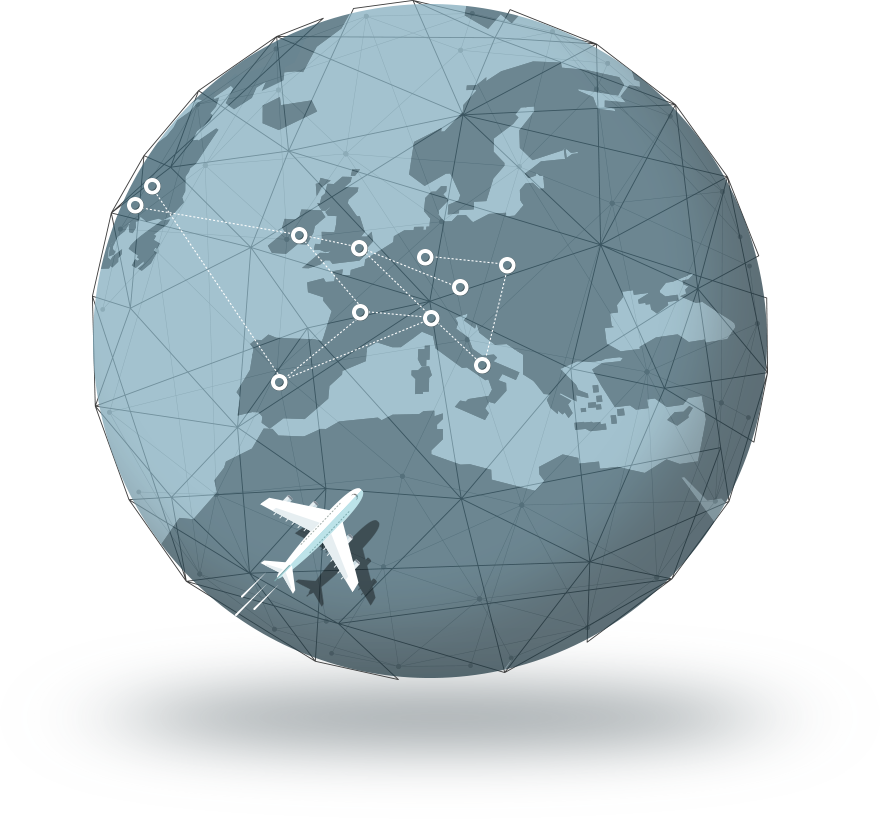
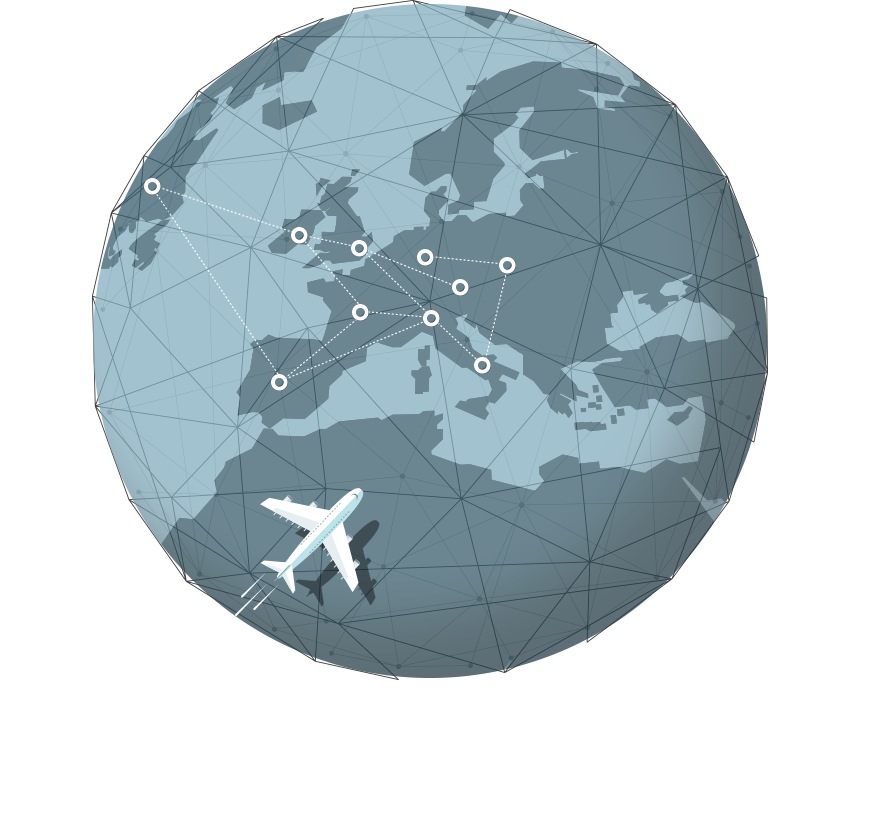
replace background what-we-do:cross-border-search

Changed region(s): [[0.1534, 0.7937, 0.8591, 0.9463], [0.1227, 0.2442, 0.1841, 0.2747]]

diff --git a/readme.md b/readme.md
@@ -14,7 +14,7 @@
 
 ### What we do
   - [ ] Change text executive search
-  - [ ] Remove USA dot on image (globe)
+  - [X] Remove USA dot on image (globe)
 
 ### Contact
   - [ ] Manage up to 5 contacts
